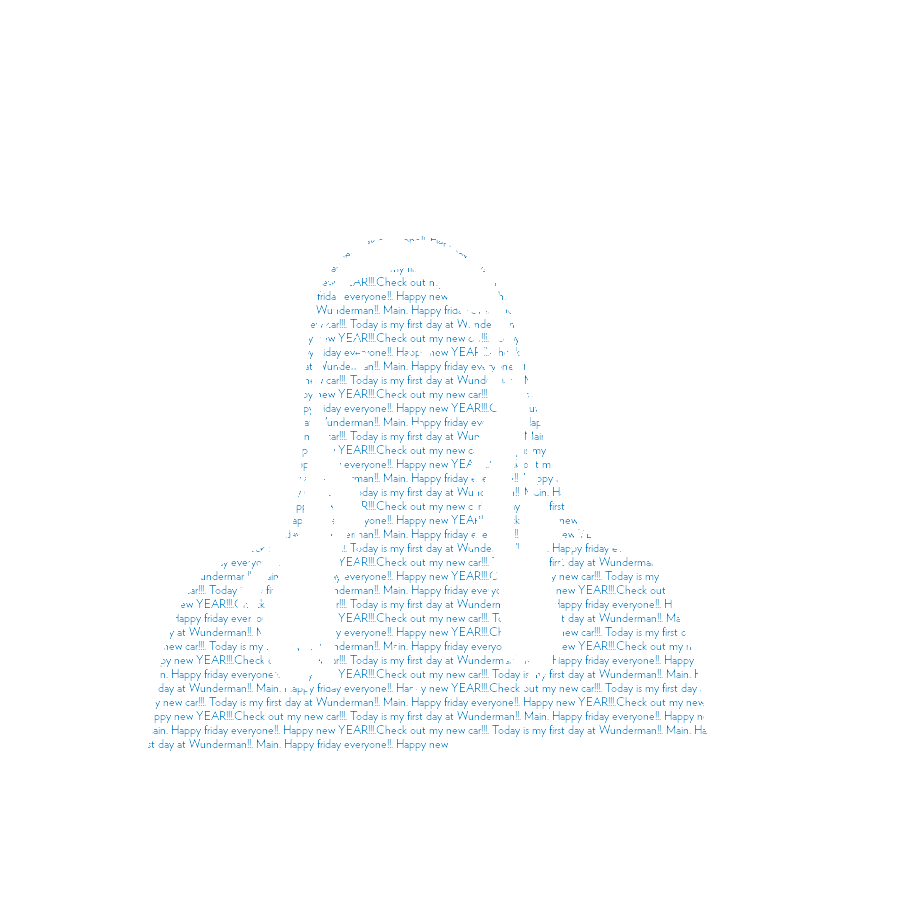
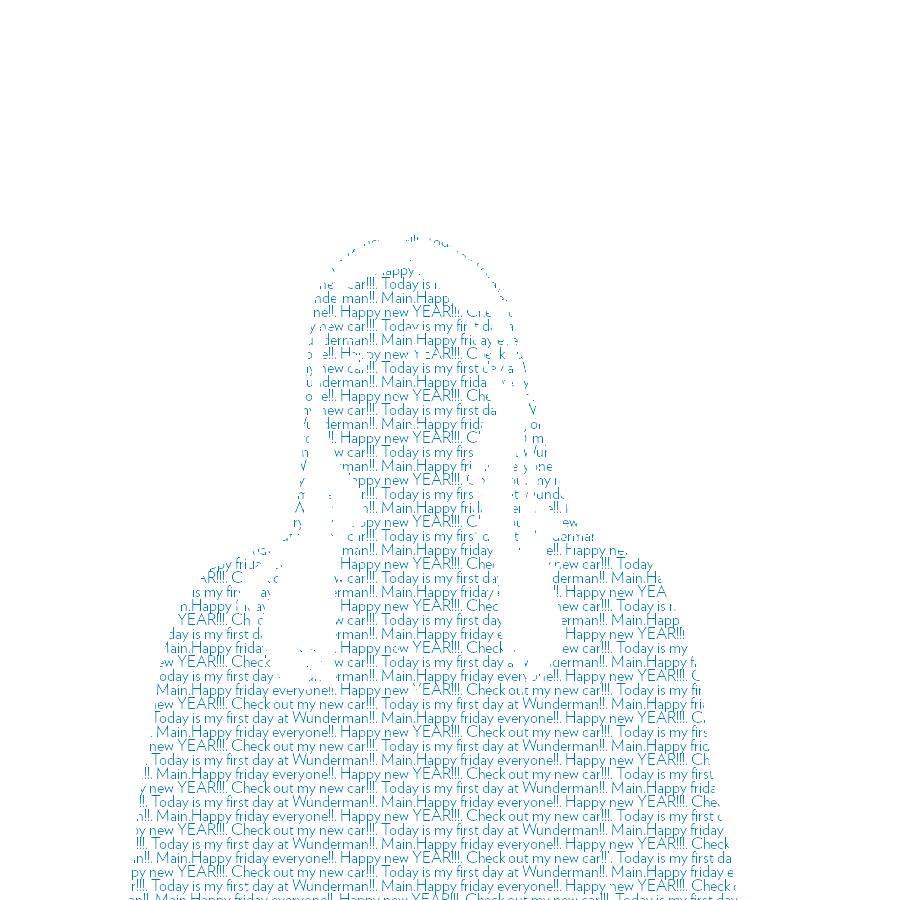
fixes de fuentes y nueva animacion

Changed region(s): [[0.1556, 0.28, 0.8089, 1.0], [0.56, 0.4667, 0.6222, 0.56], [0.3111, 0.56, 0.3422, 0.5911]]

diff --git a/dataportrait/booth/static/js/animationv2.js b/dataportrait/booth/static/js/animationv2.js
@@ -1,0 +1,135 @@
+var layer1;
+var layer2;
+var layer3;
+var ctx1;
+var ctx2;
+var ctx3;
+var WIDTH = 900;
+var HEIGHT = 900;
+
+//first layer  
+var layer1Img = new Image();
+layer1Img.src = layer1Src;
+var pos1 = [0, 0];
+
+//second layer
+var layer2Img = new Image();
+layer2Img.src = layer3Src;
+var pos2 = [0, 0];
+
+//third layer
+var layer3Img = new Image();
+layer3Img.src = layer4Src;
+var pos4 = [0, 0];
+
+//fourth layer Opacity animation
+var layer4Img = new Image();
+layer4Img.src = layer2Src;
+var op4 = 0;
+
+//fifth layer
+var layer5Img = new Image();
+layer5Img.src = layer5Src;
+var op5 = 0;
+
+function init() {
+    layer1 = document.getElementById("layer1");
+    ctx1 = layer1.getContext("2d");
+    pos1 = [0, layer1.height]
+
+    layer2 = document.getElementById("layer2");
+    ctx2 = layer2.getContext("2d");
+    pos2 = [0, -layer2.height]
+
+    layer3 = document.getElementById("layer3");
+    ctx3 = layer3.getContext("2d");
+    pos3 = [0, -layer3.height]
+
+    layer4 = document.getElementById("layer4");
+    ctx4 = layer4.getContext("2d");
+
+    layer5 = document.getElementById("layer5");
+    ctx5 = layer5.getContext("2d");
+
+    setInterval(drawAll, 10);
+    setTimeout(function(){
+        setInterval(drawOp,200);
+    }, 5000);
+}
+
+function drawAll() {
+    draw1();
+    draw2();
+    draw3();
+}
+
+function drawOp(){
+    draw5();
+    draw4();
+}
+
+/*function draw1() {
+    ctx1.clearRect(0, 0, WIDTH, HEIGHT);
+    ctx1.fillStyle = "#FAF7F8";
+    ctx1.beginPath();
+    ctx1.rect(0,0,WIDTH,HEIGHT);
+    ctx1.closePath();
+    ctx1.fill();
+    ctx1.fillStyle = "#444444";
+    ctx1.beginPath();
+    ctx1.arc(x, y, 10, 0, Math.PI*2, true);
+    ctx1.closePath();
+    ctx1.fill();
+
+    if (x + dx > WIDTH || x + dx < 0)
+        dx = -dx;
+    if (y + dy > HEIGHT || y + dy < 0)
+        dy = -dy;
+
+    x += dx;
+    y += dy;
+}*/
+
+function draw1() {
+    if(pos1[1] > 0){
+        ctx1.clearRect(0, 0, WIDTH, HEIGHT);
+        ctx1.drawImage(layer1Img, pos1[0], pos1[1], WIDTH, HEIGHT, 0, 0, layer1.width, layer1.height);
+        pos1[1] -=1;
+    }
+}
+
+function draw2() {
+    if(pos2[1] < 0){
+        ctx2.clearRect(0, 0, WIDTH, HEIGHT);
+        ctx2.drawImage(layer2Img, pos2[0], pos2[1], WIDTH, HEIGHT, 0, 0, layer2.width, layer2.height);
+        pos2[1] +=1;
+    }
+}
+
+function draw3() {
+    if(pos3[1] < 0){
+        ctx3.clearRect(0, 0, WIDTH, HEIGHT);
+        ctx3.drawImage(layer3Img, pos3[0], pos3[1], WIDTH, HEIGHT, 0, 0, layer3.width, layer3.height);
+        pos3[1] +=1;
+    }
+}
+
+function draw4() {
+    if(op4 < 1.0){
+        ctx4.clearRect(0, 0, WIDTH, HEIGHT);
+        ctx4.globalAlpha = op4;
+        ctx4.drawImage(layer4Img, 0, 0, WIDTH, HEIGHT, 0, 0, layer4.width, layer4.height);
+        op4 +=0.1;
+    }
+}
+
+function draw5() {
+    if(op5 < 1.0){
+        ctx5.clearRect(0, 0, WIDTH, HEIGHT);
+        ctx5.globalAlpha = op5;
+        ctx5.drawImage(layer5Img, 0, 0, WIDTH, HEIGHT, 0, 0, layer5.width, layer5.height);
+        op5 +=0.1;
+    }
+}
+
+init();

diff --git a/dataportrait/static/js/animationv2.js b/dataportrait/static/js/animationv2.js
@@ -1,0 +1,135 @@
+var layer1;
+var layer2;
+var layer3;
+var ctx1;
+var ctx2;
+var ctx3;
+var WIDTH = 900;
+var HEIGHT = 900;
+
+//first layer  
+var layer1Img = new Image();
+layer1Img.src = layer1Src;
+var pos1 = [0, 0];
+
+//second layer
+var layer2Img = new Image();
+layer2Img.src = layer3Src;
+var pos2 = [0, 0];
+
+//third layer
+var layer3Img = new Image();
+layer3Img.src = layer4Src;
+var pos4 = [0, 0];
+
+//fourth layer Opacity animation
+var layer4Img = new Image();
+layer4Img.src = layer2Src;
+var op4 = 0;
+
+//fifth layer
+var layer5Img = new Image();
+layer5Img.src = layer5Src;
+var op5 = 0;
+
+function init() {
+    layer1 = document.getElementById("layer1");
+    ctx1 = layer1.getContext("2d");
+    pos1 = [0, layer1.height]
+
+    layer2 = document.getElementById("layer2");
+    ctx2 = layer2.getContext("2d");
+    pos2 = [0, -layer2.height]
+
+    layer3 = document.getElementById("layer3");
+    ctx3 = layer3.getContext("2d");
+    pos3 = [0, -layer3.height]
+
+    layer4 = document.getElementById("layer4");
+    ctx4 = layer4.getContext("2d");
+
+    layer5 = document.getElementById("layer5");
+    ctx5 = layer5.getContext("2d");
+
+    setInterval(drawAll, 10);
+    setTimeout(function(){
+        setInterval(drawOp,200);
+    }, 5000);
+}
+
+function drawAll() {
+    draw1();
+    draw2();
+    draw3();
+}
+
+function drawOp(){
+    draw5();
+    draw4();
+}
+
+/*function draw1() {
+    ctx1.clearRect(0, 0, WIDTH, HEIGHT);
+    ctx1.fillStyle = "#FAF7F8";
+    ctx1.beginPath();
+    ctx1.rect(0,0,WIDTH,HEIGHT);
+    ctx1.closePath();
+    ctx1.fill();
+    ctx1.fillStyle = "#444444";
+    ctx1.beginPath();
+    ctx1.arc(x, y, 10, 0, Math.PI*2, true);
+    ctx1.closePath();
+    ctx1.fill();
+
+    if (x + dx > WIDTH || x + dx < 0)
+        dx = -dx;
+    if (y + dy > HEIGHT || y + dy < 0)
+        dy = -dy;
+
+    x += dx;
+    y += dy;
+}*/
+
+function draw1() {
+    if(pos1[1] > 0){
+        ctx1.clearRect(0, 0, WIDTH, HEIGHT);
+        ctx1.drawImage(layer1Img, pos1[0], pos1[1], WIDTH, HEIGHT, 0, 0, layer1.width, layer1.height);
+        pos1[1] -=1;
+    }
+}
+
+function draw2() {
+    if(pos2[1] < 0){
+        ctx2.clearRect(0, 0, WIDTH, HEIGHT);
+        ctx2.drawImage(layer2Img, pos2[0], pos2[1], WIDTH, HEIGHT, 0, 0, layer2.width, layer2.height);
+        pos2[1] +=1;
+    }
+}
+
+function draw3() {
+    if(pos3[1] < 0){
+        ctx3.clearRect(0, 0, WIDTH, HEIGHT);
+        ctx3.drawImage(layer3Img, pos3[0], pos3[1], WIDTH, HEIGHT, 0, 0, layer3.width, layer3.height);
+        pos3[1] +=1;
+    }
+}
+
+function draw4() {
+    if(op4 < 1.0){
+        ctx4.clearRect(0, 0, WIDTH, HEIGHT);
+        ctx4.globalAlpha = op4;
+        ctx4.drawImage(layer4Img, 0, 0, WIDTH, HEIGHT, 0, 0, layer4.width, layer4.height);
+        op4 +=0.1;
+    }
+}
+
+function draw5() {
+    if(op5 < 1.0){
+        ctx5.clearRect(0, 0, WIDTH, HEIGHT);
+        ctx5.globalAlpha = op5;
+        ctx5.drawImage(layer5Img, 0, 0, WIDTH, HEIGHT, 0, 0, layer5.width, layer5.height);
+        op5 +=0.1;
+    }
+}
+
+init();

diff --git a/dataportrait/templates/photo_generator.html b/dataportrait/templates/photo_generator.html
@@ -36,7 +36,7 @@
                     var layer{{ forloop.counter }}Src = "{{ layer }}";
                 {% endfor %}
             </script>
-            <script type="text/javascript" src="{% static 'js/animation.js' %}"></script>
+            <script type="text/javascript" src="{% static 'js/animationv2.js' %}"></script>
         </div>
     </div>
     <ul class="row share">

diff --git a/dataportrait/portraitimage/portrait.py b/dataportrait/portraitimage/portrait.py
@@ -82,7 +82,7 @@ def  createGrayScale(image, layerPath, lock):
 
 
 def createLayer1(lock, size, layerPath, text, selection):
-    fnt = ImageFont.truetype(os.path.join(settings.STATIC_ROOT, 'fonts', 'Verlag Black.otf'), 45)
+    fnt = ImageFont.truetype(os.path.join(settings.STATIC_ROOT, 'fonts', 'Verlag Black.otf'), 48)
     fontColor = (219,219,219,255)
     lineHeight = 40
 
@@ -104,7 +104,7 @@ def createLayer3(lock, grayImage, cromaSelection, layerPath, text):
     blackSelection = Selection.Selection.selectColor(grayImage.copy(), blackColor, tolerance)
     blackSelection.And(cromaSelection)
 
-    fnt3 = ImageFont.truetype(os.path.join(settings.STATIC_ROOT, 'fonts', 'Verlag Black.otf'), 14)
+    fnt3 = ImageFont.truetype(os.path.join(settings.STATIC_ROOT, 'fonts', 'Verlag Black.otf'), 20)
     fontColor3 = (0,118,190,255)
     lineHeight3 = 14
     layerThread = layer3.layer3Thread('ID3', lock, grayImage.size, blackSelection, layerPath, text, fnt3, fontColor3,lineHeight3)
@@ -120,7 +120,7 @@ def createLayer4(lock, grayImage, cromaSelection, layerPath, text):
     graySelection = Selection.Selection.selectColor(grayImage.copy(), grayColor, tolerance)
     graySelection.And(cromaSelection)
 
-    fnt3 = ImageFont.truetype(os.path.join(settings.STATIC_ROOT, 'fonts', 'Verlag Light.otf'), 12)
+    fnt3 = ImageFont.truetype(os.path.join(settings.STATIC_ROOT, 'fonts', 'Verlag Light.otf'), 16)
     fontColor3 = (0,118,190,255)
     lineHeight3 = 14
     layerThread = layer3.layer3Thread('ID4', lock, grayImage.size, graySelection, layerPath, text, fnt3, fontColor3,lineHeight3)

diff --git a/dataportrait/booth/views.py b/dataportrait/booth/views.py
@@ -63,11 +63,11 @@ def picture_generator(request, code, network):
                     context['no_content_error'] = True
                 else:
                     print('calling onUpload')
-                    portrait.onUpload(code, portraitRel)
+                    #portrait.onUpload(code, portraitRel)
                     print('calling onRequest')
-                    portrait.onRequest(code, portraitRel, network_text)
+                    #portrait.onRequest(code, portraitRel, network_text)
                     print('calling joinLayers')
-                    portrait.joinLayers(code, portraitRel)
+                    #portrait.joinLayers(code, portraitRel)
 
                     print('photo complete, sending data to template')
                     context['photo'] = portrait.getDataPortrait(portraitRel, code)
